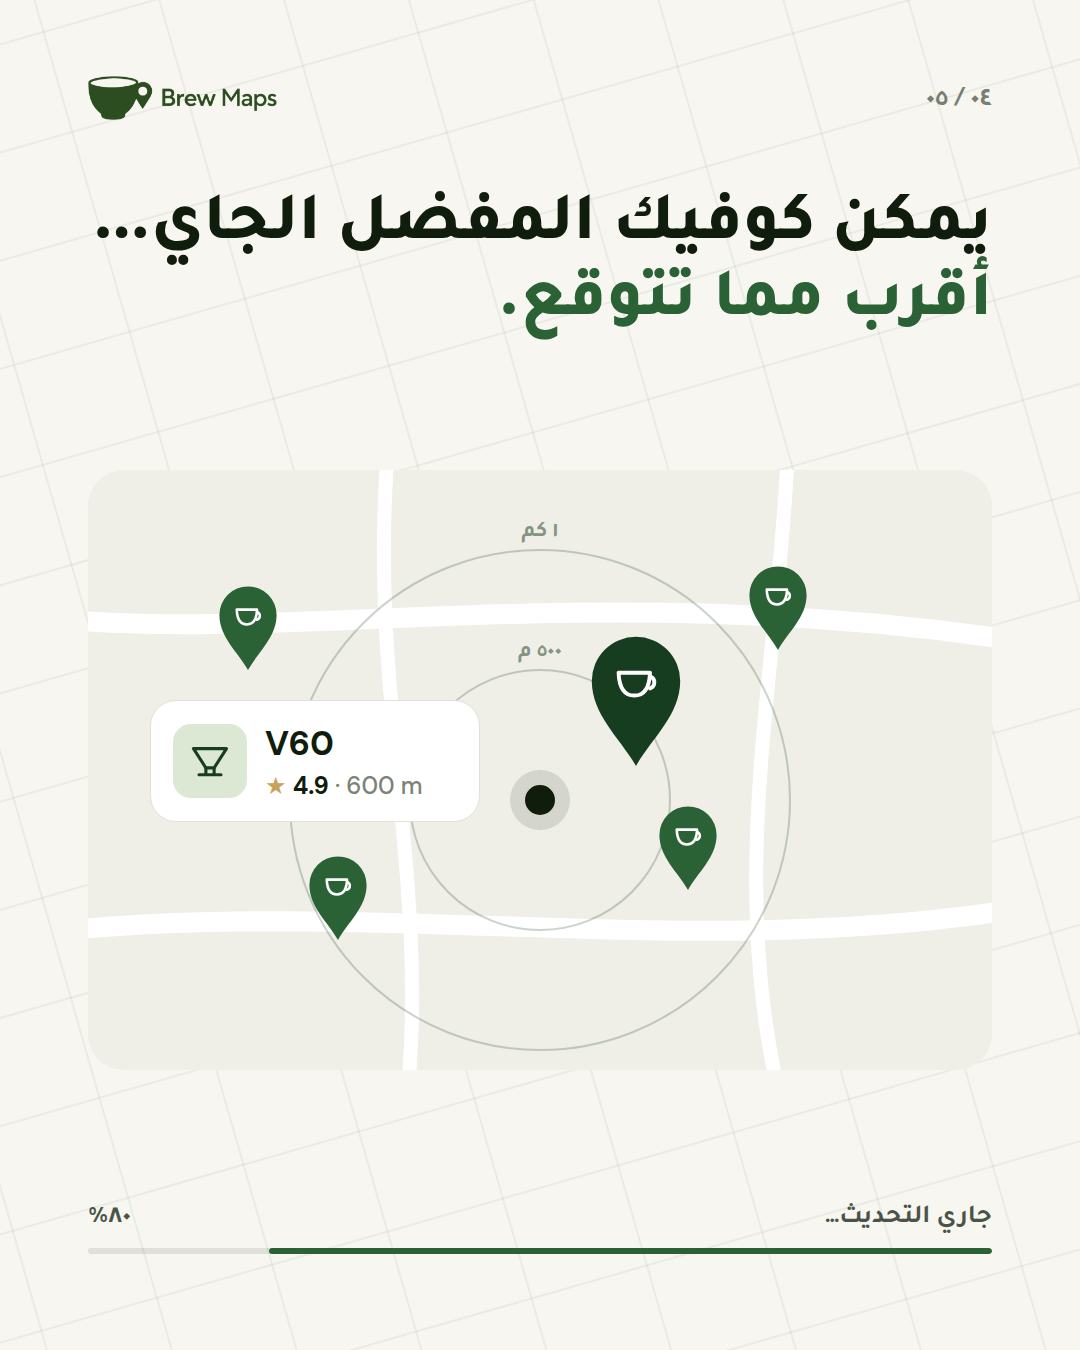
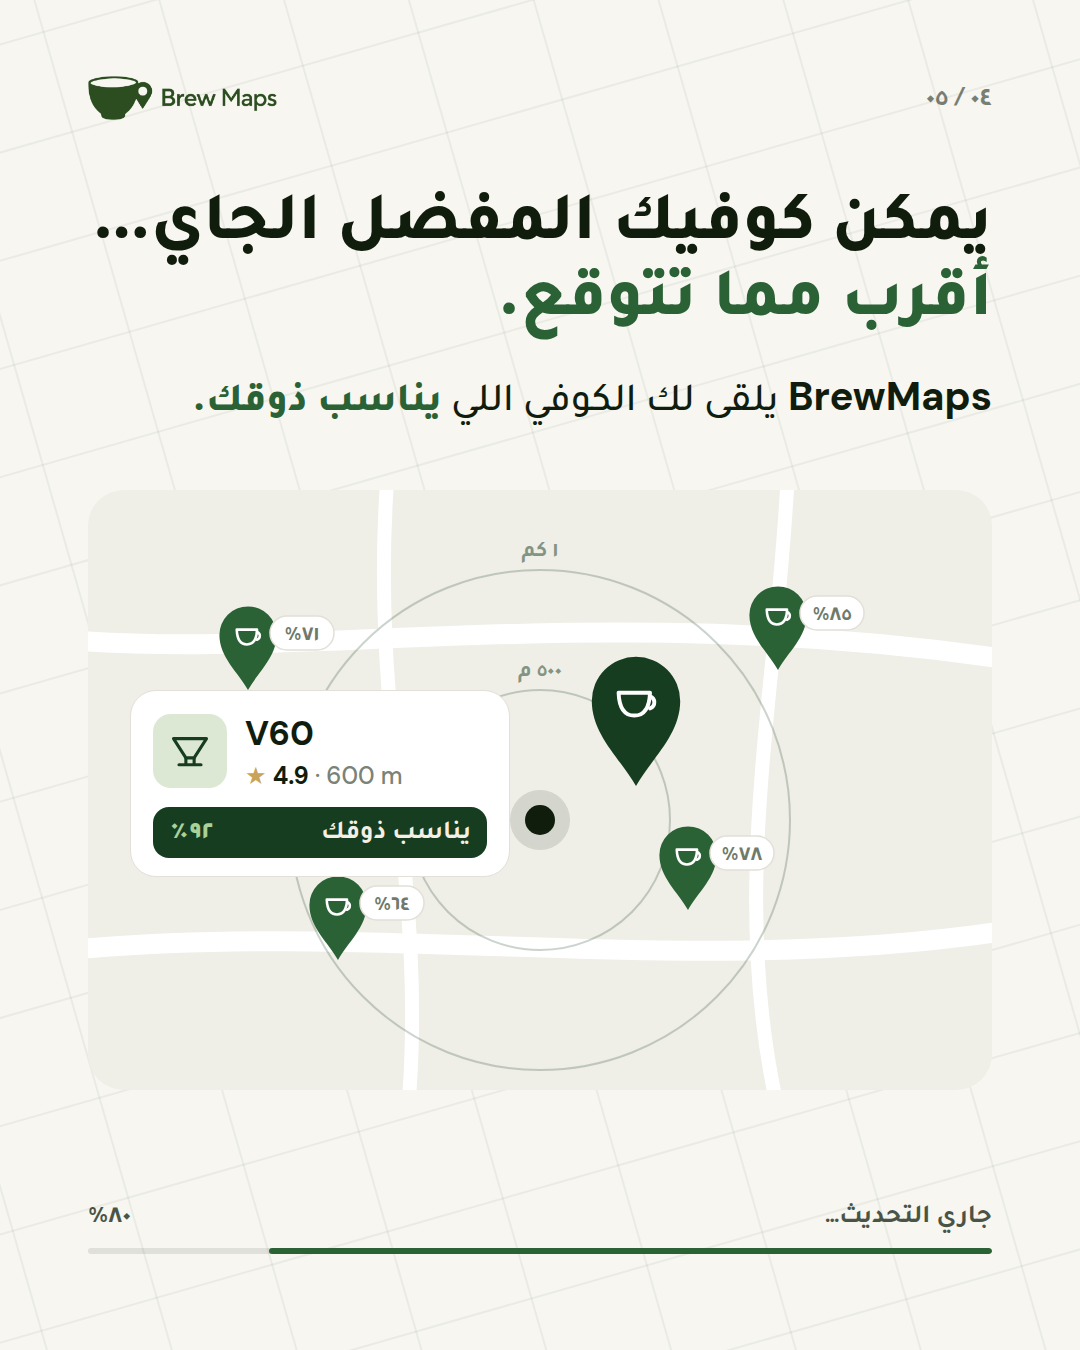
روتين قهوتك: add personalization to slide 4 (يناسب ذوقك, match %)
Claude-Session: https://claude.ai/code/session_01UCKVHF8Bj15Neb29ir5cAN

diff --git a/marketing/posts/coffee-routine-update/slides.html b/marketing/posts/coffee-routine-update/slides.html
@@ -100,7 +100,8 @@ const S = {
 
   // 4 · PAYOFF: closer than you think
   4: `<div class="h" style="top:190px; font-size:68px; white-space:nowrap;">يمكن كوفيك المفضل الجاي…<br><span class="em">أقرب مما تتوقع.</span></div>
-      <svg style="position:absolute; top:470px; left:var(--M);" width="904" height="600" viewBox="0 0 904 600">
+      <div class="sub" style="top:368px; font-size:40px;"><span class="latin" style="font-weight:700">BrewMaps</span> يلقى لك الكوفي اللي <span class="em" style="font-weight:800">يناسب ذوقك.</span></div>
+      <svg style="position:absolute; top:490px; left:var(--M);" width="904" height="600" viewBox="0 0 904 600">
         <defs><clipPath id="c4"><rect width="904" height="600" rx="36"/></clipPath></defs>
         <g clip-path="url(#c4)">
           <rect width="904" height="600" fill="#EFEEE7"/>
@@ -114,12 +115,19 @@ const S = {
           ${PIN(600, 420, 1.1, '#2B6235')} ${PIN(250, 470, 1.1, '#2B6235')} ${PIN(690, 180, 1.1, '#2B6235')} ${PIN(160, 200, 1.1, '#2B6235')}
           <circle cx="452" cy="330" r="15" fill="#101D0D"/><circle cx="452" cy="330" r="30" fill="#101D0D" opacity=".12"/>
           ${PIN(548, 296, 1.7, '#173D20')}
+          <g font-family="Tajawal" font-weight="700" font-size="22" text-anchor="middle">
+            ${[[600,420,'٧٨٪'],[250,470,'٦٤٪'],[690,180,'٨٥٪'],[160,200,'٧١٪']].map(([x,y,t]) => `<rect x="${x+22}" y="${y-74}" width="64" height="34" rx="17" fill="#fff" stroke="#E2E0D8" stroke-width="1.5"/><text x="${x+54}" y="${y-50}" fill="#6F7A6A">${t}</text>`).join('')}
+          </g>
         </g>
       </svg>
-      <div style="position:absolute; top:700px; left:150px; width:330px; background:#fff; border:1.5px solid var(--line); border-radius:26px; padding:20px 22px; display:flex; gap:18px; align-items:center; direction:ltr; font-family:'DM Sans';">
+      <div style="position:absolute; top:690px; left:130px; width:380px; background:#fff; border:1.5px solid var(--line); border-radius:26px; padding:20px 22px 18px;">
+      <div style="display:flex; gap:18px; align-items:center; direction:ltr; font-family:'DM Sans';">
         <span style="width:74px; height:74px; border-radius:18px; background:var(--sage); display:grid; place-items:center; flex:none;">
           <svg width="44" height="44" viewBox="-32 -32 64 64"><path d="M-24 -18 H24 L6 10 H-6 Z" fill="none" stroke="#173D20" stroke-width="4.5" stroke-linejoin="round"/><path d="M-16 20 H16" stroke="#173D20" stroke-width="4.5" stroke-linecap="round"/><path d="M-6 10 V20 M6 10 V20" stroke="#173D20" stroke-width="4.5"/></svg></span>
         <span><div style="font-weight:700; font-size:34px;">V60</div><div style="margin-top:4px; font-size:24px; color:var(--mute); font-weight:500;"><span style="color:#C9A35A">★</span> <b style="color:var(--ink)">4.9</b> · 600 m</div></span>
+      </div>
+      <div style="margin-top:16px; display:flex; align-items:center; justify-content:space-between; background:#173D20; color:#F4EFE4; border-radius:16px; padding:12px 16px 8px; font-weight:700; font-size:26px;">
+        <span>يناسب ذوقك</span><span style="font-weight:800; color:#A9D19A">٩٢٪</span></div>
       </div>`,
 
   // 5 · CTA

diff --git a/marketing/posts/coffee-routine-update/README.md b/marketing/posts/coffee-routine-update/README.md
@@ -9,7 +9,9 @@ System
 - The update installs as you swipe: a bar at the bottom fills 20 → 100% ("جاري التحديث…" → "تم التحديث").
 - One grid: 88px margins, logo top-left, slide number top-right, headline zone, visual zone, bar at the bottom.
 - Slide 3's area tiles use the real areas and café counts from the app's Browse by area screen (Jumeirah 24,
-  Al Quoz 29, City Walk 12, JBR 8). Slide 4's V60 card (★4.9 · 600 m) is illustrative.
+  Al Quoz 29, City Walk 12, JBR 8). Slide 4 carries the personalization: "BrewMaps يلقى لك الكوفي اللي يناسب ذوقك.",
+  match % on the pins and "يناسب ذوقك ٩٢٪" on the V60 card (★4.9 · 600 m), after the app's own "Matches your taste"
+  and match-% badges. The numbers are illustrative.
 
 Rebuild: `NODE_PATH=<playwright node_modules> node shot.js`
 
